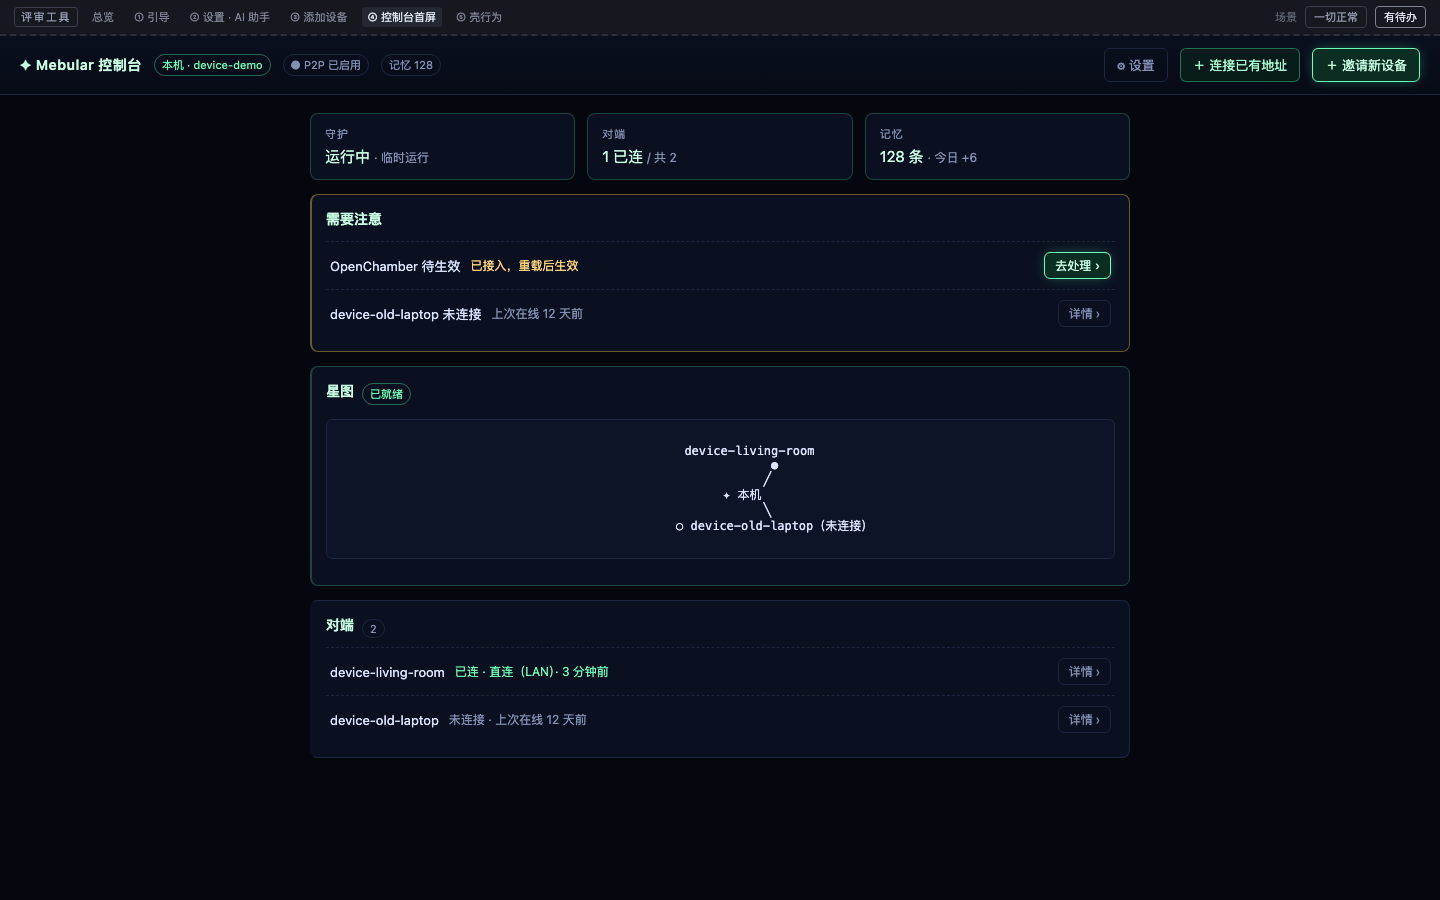
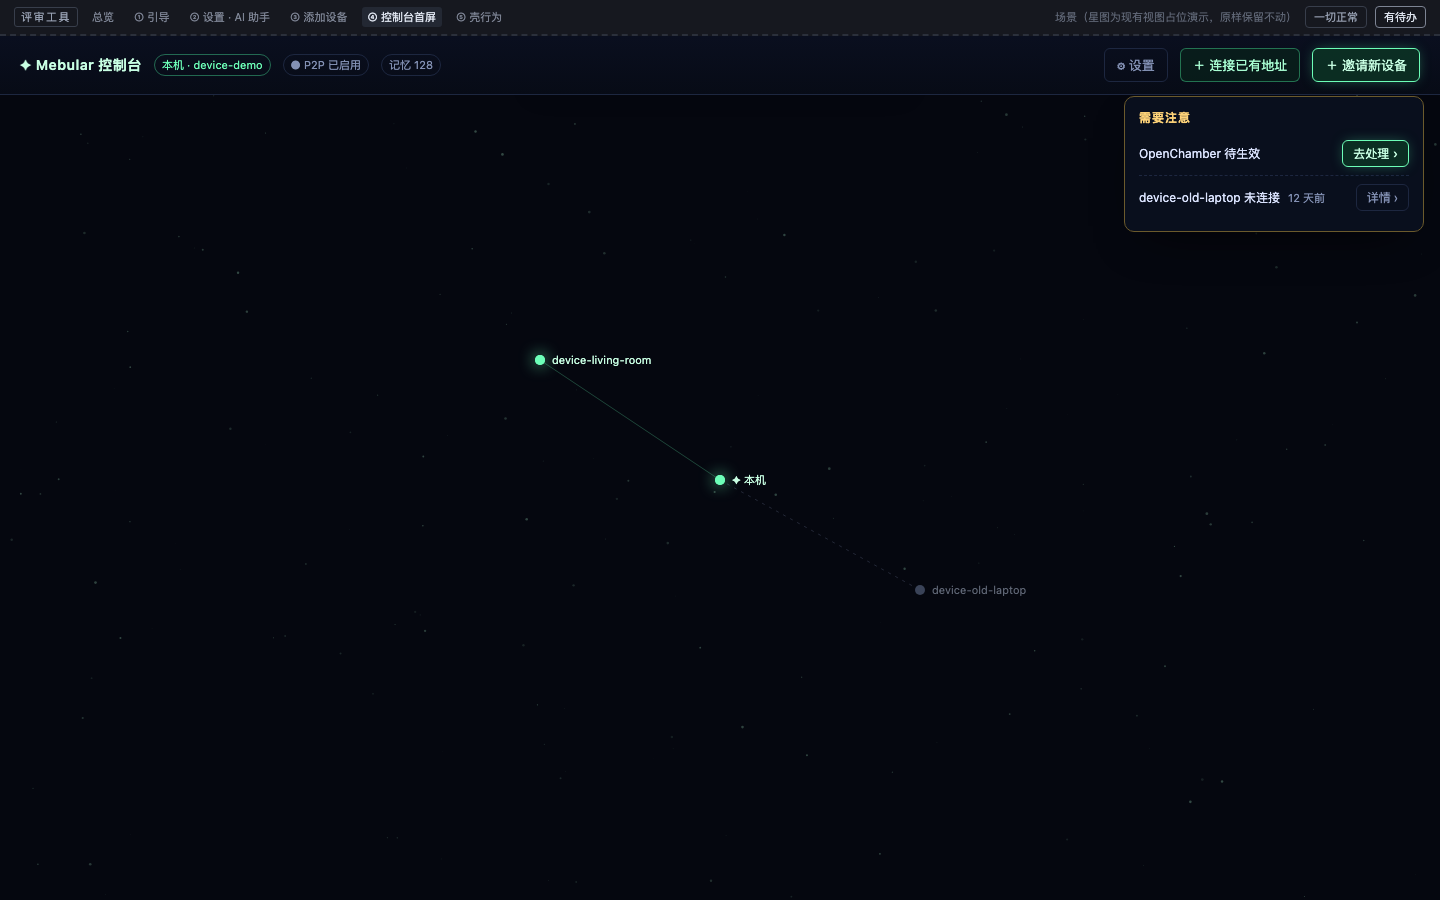
docs(design): home keeps existing fullscreen star map — config UI as overlays only
- 红线写死：现有全屏星图与既有控制台视图（域视图/审计/记忆/对端面板）
  原样保留，不在本规格范围（§0 范围声明 + §5.6 红线）
- 05 首屏修正：星图为底（原型仅占位演示），配置相关新增仅为叠加层——
  顶部状态总览条（纯只读）+ 右侧「需要注意」条件浮卡；撤掉自绘星图卡
  与对端列表（既有视图不碰）

diff --git a/docs/design/prototype/05-daily.html b/docs/design/prototype/05-daily.html
@@ -5,22 +5,37 @@
 <title>Mebular 控制台</title>
 <link rel="stylesheet" href="./prototype.css" />
 <style>
-main.home { max-width: 860px; margin: 0 auto; }
-.stats { display: grid; grid-template-columns: repeat(3, 1fr); gap: 12px; }
-.stat { border: 1px solid var(--crt-border-soft); border-radius: 8px; padding: 12px 14px; background: var(--bg-panel); }
-.stat .k { font-size: 11px; color: var(--muted); letter-spacing: 1px; }
-.stat .v { font-size: 15px; color: var(--crt-bright); margin-top: 4px; }
-.stat .v .dim { font-size: 12px; color: var(--muted); }
-.arow { display: flex; align-items: center; gap: 10px; padding: 10px 4px; border-top: 1px dashed var(--border); }
+/* 首屏 = 现有全屏星图（原样保留）；配置相关新增仅为星图之上的叠加层 */
+body.home { min-height: 100vh; overflow: hidden; }
+#sky { position: fixed; inset: 0; z-index: 0; }
+.overlay { position: relative; z-index: 1; pointer-events: none; }
+.overlay > * { pointer-events: auto; }
+
+/* 状态总览：顶部居中紧凑条（玻璃拟态，可收起） */
+.stats-pill { position: fixed; top: 54px; left: 50%; transform: translateX(-50%);
+  display: flex; gap: 18px; align-items: center; padding: 7px 18px;
+  border: 1px solid var(--crt-border-soft); border-radius: 999px;
+  background: rgba(11, 16, 32, 0.72); backdrop-filter: blur(8px);
+  font-size: 12px; color: var(--muted); box-shadow: 0 8px 30px -14px rgba(0,0,0,.8); }
+.stats-pill b { color: var(--crt-bright); font-weight: 500; }
+.stats-pill .dotsep { width: 3px; height: 3px; border-radius: 50%; background: var(--crt-dim); }
+
+/* 需要注意：右侧浮卡，条件渲染，无事不出现 */
+.attention { position: fixed; top: 96px; right: 16px; width: 300px;
+  border: 1px solid var(--warn-border); border-radius: 10px; padding: 12px 14px;
+  background: rgba(11, 16, 32, 0.85); backdrop-filter: blur(8px);
+  box-shadow: 0 18px 50px -24px rgba(0,0,0,.9); }
+.attention h3 { font-size: 12px; color: var(--warn); letter-spacing: 1px; margin-bottom: 6px; }
+.arow { display: flex; align-items: center; gap: 8px; padding: 8px 0; border-top: 1px dashed var(--border); }
 .arow:first-of-type { border-top: none; }
-.arow .nm { font-size: 13px; }
-.arow .st { font-size: 12px; color: var(--muted); }
+.arow .nm { font-size: 12px; }
+.arow .st { font-size: 11px; color: var(--muted); }
 .arow .st.todo { color: var(--warn); }
-.arow .st.ok { color: var(--crt); }
 .arow .sp { flex: 1; }
 </style>
 </head>
-<body>
+<body class="home">
+<canvas id="sky"></canvas>
 <!-- ===== 评审工具（非产品界面） ===== -->
 <div class="proto-review">
   <span class="tag">评审工具</span>
@@ -28,51 +43,73 @@ main.home { max-width: 860px; margin: 0 auto; }
   <a href="./03-settings.html">② 设置 · AI 助手</a><a href="./04-device.html">③ 添加设备</a>
   <a class="here" href="./05-daily.html">④ 控制台首屏</a><a href="./06-shell.html">⑤ 壳行为</a>
   <span class="sep"></span>
-  <span class="lbl">场景</span>
+  <span class="lbl">场景（星图为现有视图占位演示，原样保留不动）</span>
   <button data-s="normal" aria-pressed="true">一切正常</button>
   <button data-s="attention" aria-pressed="false">有待办</button>
 </div>
 <!-- ===== 产品界面 ===== -->
-<header class="topbar">
+<header class="topbar" style="position:relative;z-index:2">
   <span class="brand">✦ Mebular 控制台</span>
   <span class="badge">本机 · device-demo</span><span class="badge gray">● P2P 已启用</span><span class="badge gray">记忆 128</span>
   <span class="spacer"></span>
   <button class="ghost">⚙ 设置</button><button>＋ 连接已有地址</button><button class="primary">＋ 邀请新设备</button>
 </header>
-<main class="home">
-  <!-- 状态总览：纯状态，无操作 -->
-  <div class="stats">
-    <div class="stat"><div class="k">守护</div><div class="v">运行中 <span class="dim">· 临时运行</span></div></div>
-    <div class="stat"><div class="k">对端</div><div class="v">1 已连 <span class="dim">/ 共 2</span></div></div>
-    <div class="stat"><div class="k">记忆</div><div class="v">128 条 <span class="dim">· 今日 +6</span></div></div>
+
+<!-- 现有全屏星图（原样保留；此处仅以假数据演示其存在） -->
+<div class="overlay">
+  <!-- 新增①：状态总览条（纯状态，无操作） -->
+  <div class="stats-pill">
+    <span>守护 <b>运行中</b> · 临时</span><span class="dotsep"></span>
+    <span>对端 <b>1</b>/2 已连</span><span class="dotsep"></span>
+    <span>记忆 <b>128</b> · 今日 +6</span>
   </div>
 
-  <!-- 待办：条件渲染，无事不出现 -->
-  <section class="card" id="attention" hidden style="border-color:var(--warn-border)">
-    <div class="card-head"><h2>需要注意</h2></div>
-    <div class="arow"><span class="nm">OpenChamber 待生效</span><span class="st todo">已接入，重载后生效</span><span class="sp"></span><a class="btn primary small" href="./03-settings.html?s=pending-restart">去处理 ›</a></div>
-    <div class="arow"><span class="nm">device-old-laptop 未连接</span><span class="st">上次在线 12 天前</span><span class="sp"></span><button class="ghost small" onclick="alert('原型：对端详情。')">详情 ›</button></div>
+  <!-- 新增②：需要注意（条件渲染，无事不出现） -->
+  <section class="attention" id="attention" hidden>
+    <h3>需要注意</h3>
+    <div class="arow"><span class="nm">OpenChamber 待生效</span><span class="sp"></span><a class="btn primary small" href="./03-settings.html?s=pending-restart">去处理 ›</a></div>
+    <div class="arow"><span class="nm">device-old-laptop 未连接</span><span class="st">12 天前</span><span class="sp"></span><button class="ghost small" onclick="alert('原型：对端详情（现有视图，不在本设计范围）。')">详情 ›</button></div>
   </section>
+</div>
 
-  <!-- 星图（本机视角） -->
-  <section class="card crt">
-    <div class="card-head"><h2>星图</h2><span class="badge">已就绪</span></div>
-    <pre style="text-align:center;padding:24px">        device-living-room
-               ●
-             ╱
-      ✦ 本机
-             ╲
-               ○ device-old-laptop（未连接）</pre>
-  </section>
-
-  <!-- 对端列表 -->
-  <section class="card">
-    <div class="card-head"><h2>对端</h2><span class="badge gray">2</span></div>
-    <div class="arow"><span class="nm">device-living-room</span><span class="st ok">已连 · 直连（LAN）· 3 分钟前</span><span class="sp"></span><button class="ghost small" onclick="alert('原型：对端详情 / 断开（二次确认）。')">详情 ›</button></div>
-    <div class="arow"><span class="nm">device-old-laptop</span><span class="st">未连接 · 上次在线 12 天前</span><span class="sp"></span><button class="ghost small" onclick="alert('原型：对端详情。')">详情 ›</button></div>
-  </section>
-</main>
 <script>
+// 星图占位：示意既有全屏星图（真实星图及其特效原样保留，不在本设计范围）
+const cv = document.getElementById('sky'), cx = cv.getContext('2d');
+let stars = [], W, H;
+function resize() {
+  W = cv.width = innerWidth; H = cv.height = innerHeight;
+  stars = Array.from({ length: Math.min(220, innerWidth / 7) }, () => ({
+    x: Math.random() * W, y: Math.random() * H,
+    r: Math.random() * 1.2 + 0.2, p: Math.random() * 6.28, s: 0.15 + Math.random() * 0.5
+  }));
+}
+addEventListener('resize', resize); resize();
+function node(x, y, label, on) {
+  cx.beginPath(); cx.arc(x, y, 5, 0, 7);
+  cx.fillStyle = on ? '#6dffb8' : '#3a4358'; cx.fill();
+  if (on) { cx.shadowColor = '#6dffb8'; cx.shadowBlur = 16; cx.fill(); cx.shadowBlur = 0; }
+  cx.fillStyle = on ? '#c8ffe3' : '#5f6675'; cx.font = '11px system-ui';
+  cx.fillText(label, x + 12, y + 4);
+}
+(function tick(t) {
+  cx.clearRect(0, 0, W, H);
+  for (const st of stars) {
+    const a = 0.2 + 0.4 * (0.5 + 0.5 * Math.sin(t / 1400 * st.s + st.p));
+    cx.fillStyle = `rgba(180, 255, 214, ${a * 0.45})`;
+    cx.beginPath(); cx.arc(st.x, st.y, st.r, 0, 7); cx.fill();
+  }
+  const cx0 = W / 2, cy0 = H / 2 + 30;
+  cx.strokeStyle = 'rgba(109, 255, 184, 0.25)'; cx.lineWidth = 1;
+  cx.beginPath(); cx.moveTo(cx0, cy0); cx.lineTo(cx0 - 180, cy0 - 120); cx.stroke();
+  cx.setLineDash([3, 5]); cx.strokeStyle = 'rgba(131, 145, 180, 0.25)';
+  cx.beginPath(); cx.moveTo(cx0, cy0); cx.lineTo(cx0 + 200, cy0 + 110); cx.stroke();
+  cx.setLineDash([]);
+  node(cx0, cy0, '✦ 本机', true);
+  node(cx0 - 180, cy0 - 120, 'device-living-room', true);
+  node(cx0 + 200, cy0 + 110, 'device-old-laptop', false);
+  requestAnimationFrame(tick);
+})(0);
+
 const $ = (id) => document.getElementById(id);
 function show(s) {
   document.querySelectorAll('.proto-review button[data-s]').forEach((b) => b.setAttribute('aria-pressed', String(b.dataset.s === s)));

diff --git a/docs/design/prototype/index.html b/docs/design/prototype/index.html
@@ -29,7 +29,7 @@
       <li><a href="./01-setup.html">① 一屏引导</a>（核心）：「一键开始」看子步骤流水 → 行级接入（不跳走）→「已完成」→「已就绪 ✦」；评审条切「写入失败·续跑 / 无已装助手 / 已设置过·直达」</li>
       <li><a href="./03-settings.html">② 设置 · AI 助手</a>（日常操作面）：单列表 + 行内闭环、＋新增助手、四个失败场景（评审条）；侧栏「常用」有常驻运行与「重启向导」</li>
       <li><a href="./04-device.html">③ 添加设备</a>：生成邀请（单动作）→ QR 态 → 已连收编</li>
-      <li><a href="./05-daily.html">④ 控制台首屏</a>：纯状态（总览/星图/对端）；评审条切「有待办」</li>
+      <li><a href="./05-daily.html">④ 控制台首屏</a>：现有星图原样保留；新增仅叠加层（状态条 + 条件待办）；评审条切「有待办」</li>
       <li><a href="./06-shell.html">⑤ 壳行为</a>：托盘/窗口/退出确认（标注屏）</li>
     </ol>
   </section>

diff --git a/docs/design/prototype/README.md b/docs/design/prototype/README.md
@@ -14,7 +14,7 @@
 | `01-setup.html` | **一屏引导**（核心）：星野舞台 + 里程碑轨道，永远只有一个主按钮：① 一键开始（按钮区原位展开子步骤流水：✓启动 ✓写入 ●重启恢复；失败子步骤定位+「从此处续跑」）→ ② 行级接入（「已接入 ✓」不自动翻段，点「已完成」才翻段；可回头再接）→ 已就绪 ✦（邀请不进引导，完成页提一句）；场景：写入失败·续跑 / 无已装助手 / 已设置过·直达 |
 | `03-settings.html` | 设置 · AI 助手（日常操作面）：设置侧栏（常用/AI 助手/高级/诊断）+ 单列表助手管理（与引导同语言：名称+状态词+一个动作，需处理优先排序，未安装折叠底部一行）、＋新增助手、行内展开走完验证闭环；常用区含常驻运行与「重启向导」；场景条覆盖**检测失败 / 写入失败 / 验证失败 / 需重启未重启**（一行式） |
 | `04-device.html` | 邀请（单动作页）：一个主按钮 → 结果（QR+令牌+复制）；重新生成收详情（二次确认）；已连收编 +「再邀请一台 ›」折叠；加入服务未启用一行指路 |
-| `05-daily.html` | **控制台首屏**（日常）：纯状态——状态总览三格（守护/对端/记忆）+「需要注意」条件待办（无事不出现）+ 星图 + 对端列表；设置/关于本机不占首屏 |
+| `05-daily.html` | **控制台首屏**（日常）：现有全屏星图**原样保留**（原型中仅为占位演示），配置相关新增仅为星图上的叠加层——状态总览条（纯只读）+「需要注意」条件浮卡（无事不出现） |
 | `06-shell.html` | 壳行为标注屏（评审页）：托盘分组菜单 / 关窗=隐藏 / 退出确认口径 / 单实例 |
 
 ## 推荐路线
